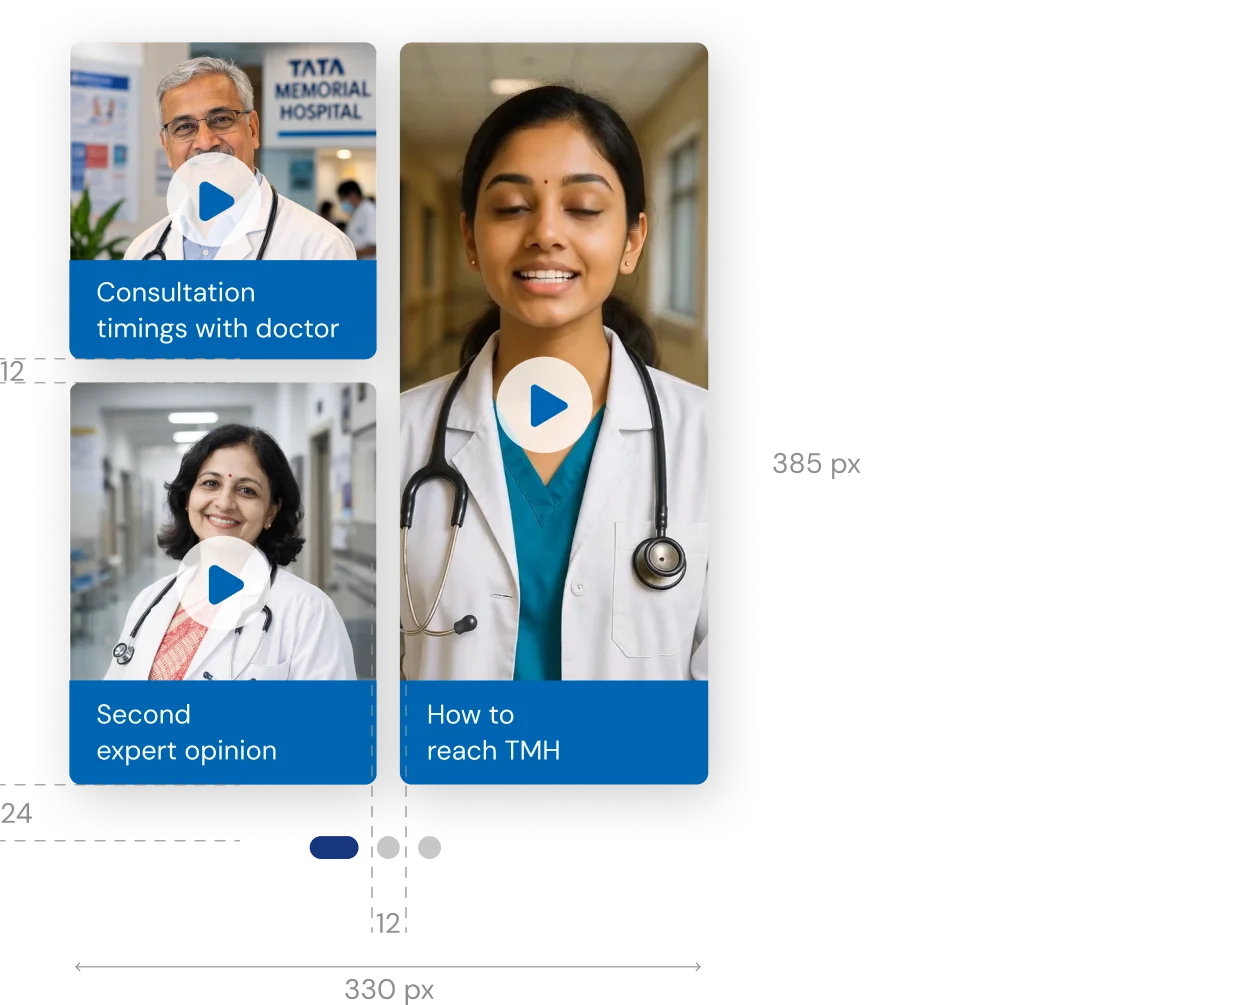
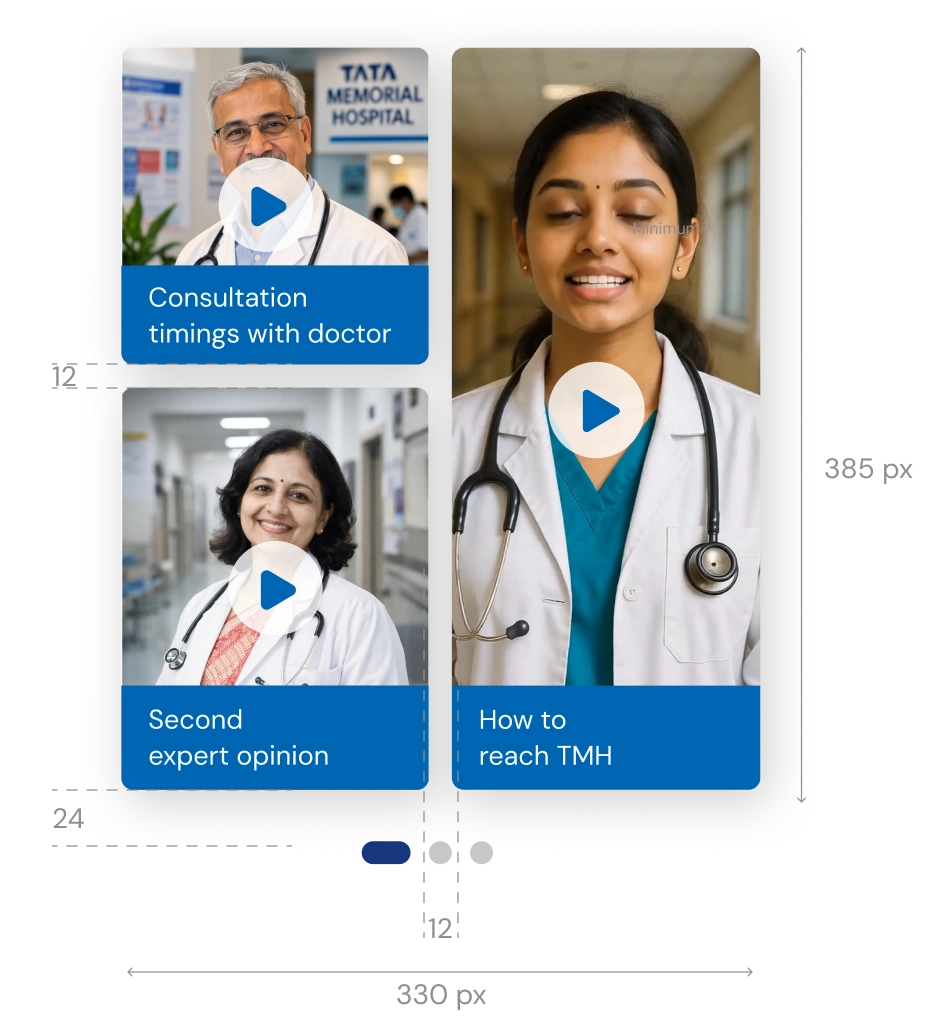
bento cleaned

diff --git a/src/Components/CoreComponents/HeroBanner/HeroBanner.js b/src/Components/CoreComponents/HeroBanner/HeroBanner.js
@@ -8,15 +8,19 @@ const HeroBanner = () => {
     const tabs = [
         {
             id: 'option-a',
-            label: 'Option A'
+            label: 'Option A',
+            showInteraction: true,
+
         },
         {
             id: 'option-b',
-            label: 'Option B'
+            label: 'Option B',
+            showInteraction: true,
         },
         {
             id: 'option-c',
-            label: 'Option C'
+            label: 'Option C',
+            showInteraction: true,
         }
     ];
 
@@ -151,7 +155,7 @@ const HeroBanner = () => {
                         'D. Hero Overlay - #000000 (23%) opacity 100% - #666666 (75%) opacity 0%, 70% opacity',
                         'E. Image or video - 1696px by 535px'
                     ],
-                    image: require('../../../Assets/Images/hero-banner-image-1.webp')
+                    image: require('../../../Assets/Images/hero-banner-option-c-anatomy-desktop.webp')
                 },
 
                 mobile: {
@@ -164,15 +168,13 @@ const HeroBanner = () => {
                         'E. Hero Overlay - linear gradient, #000000 (0% alpha) to #000000 (70% alpha), right to left'
 
                     ],
-                    image: require('../../../Assets/Images/hero-banner-image-2.webp')
+                    image: require('../../../Assets/Images/hero-banner-option-c-anatomy-mobile.webp')
                 }
             },
 
             spacing: {
-                desktop: require('../../../Assets/Images/hero-banner-image-1.webp'),
-                desktop_2: require('../../../Assets/Images/hero-banner-image-1.webp'),
-                mobile: require('../../../Assets/Images/hero-banner-image-2.webp'),
-                desktop_2: require('../../../Assets/Images/hero-banner-image-1.webp')
+                desktop: require('../../../Assets/Images/hero-banner-option-c-spacing-desktop.webp'),
+                mobile: require('../../../Assets/Images/hero-banner-option-c-spacing-mobile.webp'),
             },
 
             interaction: '',
@@ -401,7 +403,7 @@ const HeroBanner = () => {
                                             <img
                                                 src={currentVariant.anatomy.mobile.image_2}
                                                 alt=""
-                                                
+
                                             />
                                         </div>
 
@@ -455,58 +457,62 @@ const HeroBanner = () => {
                     </section>
 
                     <section>
-    <div className="titlebdr">
-        SPACING IN PIXELS
-    </div>
-
-    <div className='imageWrapBg2'>
-        <div className='pagecont dashed-border'>
-            <div className='container'>
-                <p className='title'>
-                    Desktop
-                </p>
-                <div className="horizBullets2">
-                    <img
-                        className='full-width'
-                        src={currentVariant.spacing.desktop}
-                        alt=""
-                    />
-                </div>
-            </div>
-        </div>
-
-        <div className={`pagecont pt-40 ${activeTab === 'option-b' ? 'container' : 'container-800'}`}>
-            <div>
-                <p className='title'>
-                    Mobile
-                </p>
-                <div className="horizBullets2">
-                    <img
-                        className={activeTab === 'option-b' ? 'full-width' : ''}
-                        src={currentVariant.spacing.mobile}
-                        alt=""
-                    />
-                </div>
-            </div>
-        </div>
-    </div>
-</section>
-
-                    <section>
-                        <div className="titlebdr mrgbtm">
-                            INTERACTION {activeTab === 'option-a' ? 'OPTION A' : activeTab === 'option-b' ? 'OPTION B' : 'OPTION C'}
+                        <div className="titlebdr">
+                            SPACING IN PIXELS
                         </div>
 
-                        {Array.isArray(currentVariant.interaction) ? (
-                            <ul className='bullets'>
-                                {currentVariant.interaction.map((item, index) => (
-                                    <li key={index}>{item}</li>
-                                ))}
-                            </ul>
-                        ) : (
-                            <p>{currentVariant.interaction}</p>
-                        )}
+                        <div className='imageWrapBg2'>
+                            <div className='pagecont dashed-border'>
+                                <div className='container'>
+                                    <p className='title'>
+                                        Desktop
+                                    </p>
+                                    <div className="horizBullets2">
+                                        <img
+                                            className='full-width'
+                                            src={currentVariant.spacing.desktop}
+                                            alt=""
+                                        />
+                                    </div>
+                                </div>
+                            </div>
+
+                            <div className={`pagecont pt-40 ${activeTab === 'option-b' ? 'container' : 'container-800'}`}>
+                                <div>
+                                    <p className='title'>
+                                        Mobile
+                                    </p>
+                                    <div className="horizBullets2">
+                                        <img
+                                            className={activeTab === 'option-b' ? 'full-width' : ''}
+                                            src={currentVariant.spacing.mobile}
+                                            alt=""
+                                        />
+                                    </div>
+                                </div>
+                            </div>
+                        </div>
                     </section>
+
+
+                    {/* INTERACTION Section - Hide for Option C */}
+                    {tabs.find(tab => tab.id === activeTab)?.showInteraction && currentVariant.interaction && (
+                        <section>
+                            <div className="titlebdr mrgbtm">
+                                INTERACTION {activeTab === 'option-a' ? 'OPTION A' : activeTab === 'option-b' ? 'OPTION B' : 'OPTION C'}
+                            </div>
+
+                            {Array.isArray(currentVariant.interaction) ? (
+                                <ul className='bullets'>
+                                    {currentVariant.interaction.map((item, index) => (
+                                        <li key={index}>{item}</li>
+                                    ))}
+                                </ul>
+                            ) : ( 
+                                <p>{currentVariant.interaction}</p>
+                            )}
+                        </section>
+                    )}
 
                     <section>
                         <div className="titlebdr mrgbtm">

diff --git a/src/Components/CoreComponents/BentoGrid/BentoGrid.js b/src/Components/CoreComponents/BentoGrid/BentoGrid.js
@@ -94,12 +94,12 @@ const BentoGrid = () => {
                 'C. Content Details- Mobile body small',
                 'D. Play Button - 50 x 50px, added for videos.'
             ],
-            mobileImage: require('../../../Assets/Images/bento-grid-image-6.webp'),
+            mobileImage: require('../../../Assets/Images/bento-4c-anatomy-mobile.webp'),
             mobileDescription: '',
 
             // SPACING IN PIXELS
-            desktopSpacingImage: require('../../../Assets/Images/bento-grid-image-7.webp'),
-            mobileSpacingImage: require('../../../Assets/Images/bento-grid-image-8.webp'),
+            desktopSpacingImage: require('../../../Assets/Images/bento-4c-spacing-desktop.webp'),
+            mobileSpacingImage: require('../../../Assets/Images/bento-4c-spacing-mobile.webp'),
 
             // CONTENT
             content: `The 4-card bento grid arranges image or video cards in a visually balanced layout with varied sizes.
@@ -216,7 +216,7 @@ const BentoGrid = () => {
 
             // SPACING IN PIXELS
             desktopSpacingImage: require('../../../Assets/Images/bento-6c-spacing-desktop.webp'),
-            mobileSpacingImage: require('../../../Assets/Images/bento-grid-image-8.webp'),
+            mobileSpacingImage: require('../../../Assets/Images/bento-5c-spacing-mobile.webp'),
 
             // CONTENT
             content: `Content within Bento Grids should remain concise, emotionally engaging, and visually balanced.
@@ -375,7 +375,7 @@ const BentoGrid = () => {
             mobileTitle: '',
             mobileBullets: [],
             mobileImage: require('../../../Assets/Images/bento-10c-anatomy-mobile.webp'),
-            mobileDescription: "If there are more than 8 videos and the 5-card bento layout is in use, a 'View More' option expands the section to display up to 10 videos.",
+            mobileDescription: "Horizontal swipe four column layout carousel - A responsive four-column structure used to organise content cards with varying heights and proportions.",
 
             // SPACING IN PIXELS
             desktopSpacingImage: (''),
@@ -421,8 +421,8 @@ const BentoGrid = () => {
             // Mobile Data
             mobileTitle: '',
             mobileBullets: [],
-            mobileImage: require('../../../Assets/Images/bento-10c-anatomy-mobile.webp'),
-            mobileDescription: "If there are more than 8 videos and the 6-card bento layout is in use, a 'View More' option expands the section to display up to 12 videos.",
+            mobileImage: require('../../../Assets/Images/bento-12c-anatomy-mobile.webp'),
+            mobileDescription: "Horizontal swipe four column layout carousel - A responsive four-column structure used to organise content cards with varying heights and proportions.",
 
             // SPACING IN PIXELS
             desktopSpacingImage: (''),
@@ -547,13 +547,13 @@ const BentoGrid = () => {
         <div className='BentoGridContent'>
             <div className="headTitleBg">
                 <div className="container">
-                    <h1><span>4. </span> Bento Grid</h1>
+                    <h1><span>4. </span>Image & Bento Grid</h1>
                 </div>
             </div>
             <div className='page-content padtp0'>
                 <div className="container">
                     <section className='padtp2'>
-                        Bento Grids are used to present multiple related content items in a visually engaging, editorial-style layout with varied card sizes and compositions.
+                        Image & Bento Grids are used to present multiple related content items in a visually engaging, editorial-style layout with varied card sizes and compositions.
                     </section>
 
                     <section>
@@ -571,16 +571,15 @@ const BentoGrid = () => {
                                 <ul className='bullets nospace'>
                                     <li>Home pages</li>
                                     <li>Donations section landing page</li>
-                                    <li>Grids for Patient Support</li>
+
                                 </ul>
                                 <ul className='bullets nospace'>
-                                    <li>Why choose TMC as an international patient</li>
+                                    <li>Grids for Patient Support</li>
                                     <li>Financial assistance</li>
                                 </ul>
                             </div>
                         </div>
                     </section>
-
                     <section>
                         <div className="titlebdr">VARIANTS</div>
                         <div className='imageWrapBg padbtm'>
@@ -761,7 +760,7 @@ const BentoGrid = () => {
                                     <div>
                                         <p className='title'>Mobile</p>
                                         <img
-                                            className='mrgbtm full-width'
+                                            className='mrgbtm '
                                             src={tabData[activeTab].mobileSpacingImage}
                                             alt="Mobile Spacing"
                                         />

diff --git a/src/Utils/TabSwitcher/TabSwitcher.scss b/src/Utils/TabSwitcher/TabSwitcher.scss
@@ -46,7 +46,7 @@
   .tabs-header {
     display: flex;
     gap: 12px;
-    flex-wrap: nowrap;           // ✅ Prevent wrapping
+    flex-wrap: nowrap;    
     overflow-x: auto;  
 
     .tab-btn {
